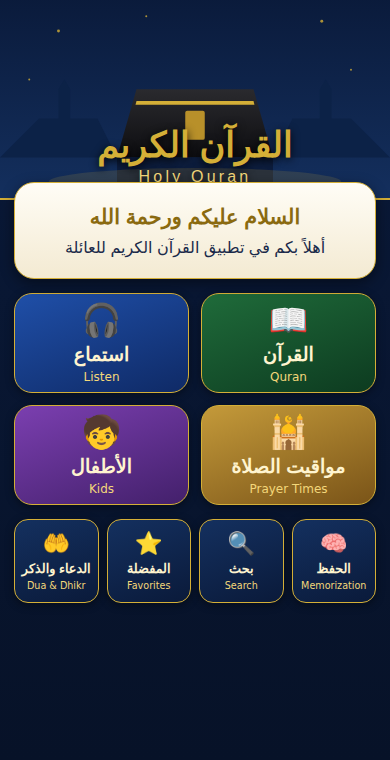
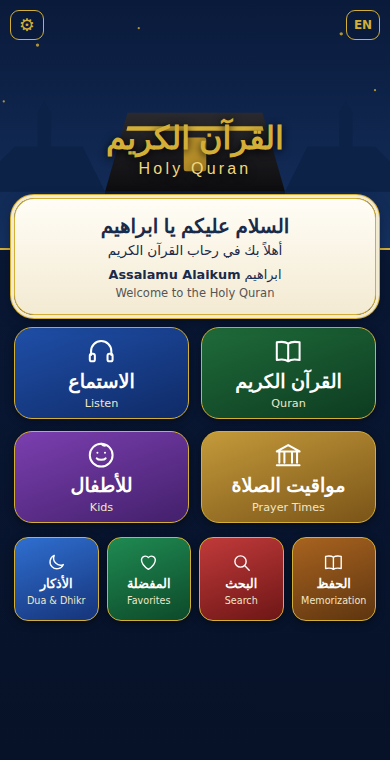
Match Home screen to approved reference image

diff --git a/index.html b/index.html
@@ -17,6 +17,8 @@
 <body>
 <main class="app">
   <header class="hero">
+    <button class="hbtn gear" type="button" aria-label="الإعدادات">⚙</button>
+    <button class="hbtn lang" type="button" aria-label="English">EN</button>
     <img src="assets/header.jpg" onerror="this.onerror=null;this.src='assets/header.svg'" alt="" class="hero-img">
     <div class="hero-text">
       <h1>القرآن الكريم</h1>
@@ -25,22 +27,24 @@
   </header>
 
   <section class="welcome" aria-label="ترحيب">
-    <p class="welcome-title">السلام عليكم ورحمة الله</p>
-    <p>أهلاً بكم في تطبيق القرآن الكريم للعائلة</p>
+    <p class="w-ar">السلام عليكم يا ابراهيم</p>
+    <p class="w-ar2">أهلاً بك في رحاب القرآن الكريم</p>
+    <p class="w-en" dir="ltr"><b>Assalamu Alaikum</b> ابراهيم</p>
+    <p class="w-en2" lang="en" dir="ltr">Welcome to the Holy Quran</p>
   </section>
 
   <nav class="grid primary" aria-label="الأقسام الرئيسية">
-    <a href="#quran" class="btn big quran"><span class="ico">📖</span><b>القرآن</b><small lang="en" dir="ltr">Quran</small></a>
-    <a href="#listen" class="btn big listen"><span class="ico">🎧</span><b>استماع</b><small lang="en" dir="ltr">Listen</small></a>
-    <a href="#prayer" class="btn big prayer"><span class="ico">🕌</span><b>مواقيت الصلاة</b><small lang="en" dir="ltr">Prayer Times</small></a>
-    <a href="#kids" class="btn big kids"><span class="ico">🧒</span><b>الأطفال</b><small lang="en" dir="ltr">Kids</small></a>
+    <a href="#quran" class="btn big quran"><svg class="ico" viewBox="0 0 24 24" fill="none" stroke="currentColor" stroke-width="1.6" stroke-linecap="round" stroke-linejoin="round"><path d="M12 6v14M12 6C10 4.5 6 4.5 3 5v14c3-.5 7-.5 9 1 2-1.5 6-1.5 9-1V5c-3-.5-7-.5-9 1z"/></svg><b>القرآن الكريم</b><small lang="en" dir="ltr">Quran</small></a>
+    <a href="#listen" class="btn big listen"><svg class="ico" viewBox="0 0 24 24" fill="none" stroke="currentColor" stroke-width="1.6" stroke-linecap="round" stroke-linejoin="round"><path d="M4 15v-3a8 8 0 0116 0v3"/><rect x="3" y="14" width="4" height="6" rx="1.5"/><rect x="17" y="14" width="4" height="6" rx="1.5"/></svg><b>الاستماع</b><small lang="en" dir="ltr">Listen</small></a>
+    <a href="#prayer" class="btn big prayer"><svg class="ico" viewBox="0 0 24 24" fill="none" stroke="currentColor" stroke-width="1.6" stroke-linecap="round" stroke-linejoin="round"><path d="M3 9l9-5 9 5zM5 9v9M9 9v9M15 9v9M19 9v9M3 20h18"/></svg><b>مواقيت الصلاة</b><small lang="en" dir="ltr">Prayer Times</small></a>
+    <a href="#kids" class="btn big kids"><svg class="ico" viewBox="0 0 24 24" fill="none" stroke="currentColor" stroke-width="1.6" stroke-linecap="round" stroke-linejoin="round"><circle cx="12" cy="12" r="9"/><path d="M8.5 14.5c1 1.5 6 1.5 7 0M9 10h.01M15 10h.01M12 3c1 1 2 1.5 3 1.5"/></svg><b>للأطفال</b><small lang="en" dir="ltr">Kids</small></a>
   </nav>
 
   <nav class="grid secondary" aria-label="أقسام أخرى">
-    <a href="#memorization" class="btn small"><span class="ico">🧠</span><b>الحفظ</b><small lang="en" dir="ltr">Memorization</small></a>
-    <a href="#search" class="btn small"><span class="ico">🔍</span><b>بحث</b><small lang="en" dir="ltr">Search</small></a>
-    <a href="#favorites" class="btn small"><span class="ico">⭐</span><b>المفضلة</b><small lang="en" dir="ltr">Favorites</small></a>
-    <a href="#dua" class="btn small"><span class="ico">🤲</span><b>الدعاء والذكر</b><small lang="en" dir="ltr">Dua &amp; Dhikr</small></a>
+    <a href="#memorization" class="btn small mem"><svg class="ico" viewBox="0 0 24 24" fill="none" stroke="currentColor" stroke-width="1.6" stroke-linecap="round" stroke-linejoin="round"><path d="M12 6v14M12 6C10 4.5 6 4.5 3 5v14c3-.5 7-.5 9 1 2-1.5 6-1.5 9-1V5c-3-.5-7-.5-9 1z"/></svg><b>الحفظ</b><small lang="en" dir="ltr">Memorization</small></a>
+    <a href="#search" class="btn small search"><svg class="ico" viewBox="0 0 24 24" fill="none" stroke="currentColor" stroke-width="1.6" stroke-linecap="round" stroke-linejoin="round"><circle cx="11" cy="11" r="6.5"/><path d="M16 16l5 5"/></svg><b>البحث</b><small lang="en" dir="ltr">Search</small></a>
+    <a href="#favorites" class="btn small fav"><svg class="ico" viewBox="0 0 24 24" fill="none" stroke="currentColor" stroke-width="1.6" stroke-linecap="round" stroke-linejoin="round"><path d="M12 20s-8-5-8-11a4.5 4.5 0 018-2.5A4.5 4.5 0 0120 9c0 6-8 11-8 11z"/></svg><b>المفضلة</b><small lang="en" dir="ltr">Favorites</small></a>
+    <a href="#dua" class="btn small dua"><svg class="ico" viewBox="0 0 24 24" fill="none" stroke="currentColor" stroke-width="1.6" stroke-linecap="round" stroke-linejoin="round"><path d="M20 14.5A8 8 0 019.5 4a8 8 0 1010.5 10.5z"/></svg><b>الأذكار</b><small lang="en" dir="ltr">Dua &amp; Dhikr</small></a>
   </nav>
 </main>
 <script>

diff --git a/styles.css b/styles.css
@@ -3,28 +3,36 @@
 html,body{min-height:100%}
 body{background:var(--navy);color:var(--text);font-family:"Noto Naskh Arabic","Amiri","Traditional Arabic","Geeza Pro",Tahoma,"Segoe UI",Arial,sans-serif;-webkit-tap-highlight-color:transparent}
 .app{max-width:480px;margin:0 auto;min-height:100vh;padding:0 0 calc(16px + env(safe-area-inset-bottom));background:linear-gradient(180deg,var(--navy),#071228)}
-.hero{position:relative;height:200px;overflow:hidden;border-bottom:2px solid var(--gold)}
+.hero{position:relative;height:250px;overflow:hidden;border-bottom:2px solid var(--gold)}
 .hero-img{width:100%;height:100%;object-fit:cover;display:block}
-.hero-text{position:absolute;inset:auto 0 12px;text-align:center;text-shadow:0 2px 8px #000}
-.hero h1{font-size:2.2rem;color:var(--gold);line-height:1.3}
+.hero-text{position:absolute;inset:auto 0 70px;text-align:center;text-shadow:0 2px 8px #000}
+.hero h1{font-size:2rem;color:var(--gold);line-height:1.3}
 .hero p{font-size:1rem;letter-spacing:.2em;color:var(--gold2)}
-.welcome{margin:-18px 14px 14px;position:relative;padding:16px 14px;text-align:center;color:#1a2a4a;border:1px solid var(--gold);border-radius:20px;background:linear-gradient(180deg,#fffdf6,#f3ead2);line-height:1.7;box-shadow:0 4px 14px rgba(0,0,0,.45)}
-.welcome-title{color:#8a6a10;font-size:1.3rem;font-weight:700}
+.welcome{margin:-52px 14px 12px;position:relative;padding:12px 14px;text-align:center;color:#1a2a4a;border:1px solid var(--gold);border-radius:20px;background:linear-gradient(180deg,#fffdf6,#f3ead2);line-height:1.5;box-shadow:0 0 0 3px #f3ead2,0 0 0 4px var(--gold),0 4px 14px rgba(0,0,0,.5)}
+.w-ar{color:#1a2a4a;font-size:1.25rem;font-weight:700}
+.w-ar2{font-size:.85rem}
+.w-en{font-size:.8rem;font-family:system-ui,Arial,sans-serif;margin-top:4px}
+.w-en2{font-size:.72rem;color:#555;font-family:system-ui,Arial,sans-serif}
+.hbtn{position:absolute;top:10px;z-index:2;width:34px;height:30px;border-radius:9px;border:1px solid var(--gold);background:rgba(10,26,58,.75);color:var(--gold);font:700 .75rem system-ui,sans-serif}
+.gear{left:10px;font-size:1.1rem}.lang{right:10px}
 .grid{display:grid;gap:12px;margin:0 14px 14px}
 .primary{grid-template-columns:1fr 1fr}
 .secondary{grid-template-columns:repeat(4,1fr);gap:8px}
 .btn{display:flex;flex-direction:column;align-items:center;justify-content:center;gap:4px;text-decoration:none;color:var(--text);text-align:center;border:1.5px solid var(--gold);background:linear-gradient(160deg,var(--navy2),var(--navy));box-shadow:0 2px 8px rgba(0,0,0,.4)}
 .btn:active{filter:brightness(1.2);transform:scale(.97)}
-.btn b{color:#fff4cf;font-size:1rem}
-.btn small{font-size:.75rem;color:var(--gold2);font-family:system-ui,Arial,sans-serif}
-.big{min-height:100px;border-radius:18px}
-.big .ico{font-size:2rem}
+.btn b{color:#fff;font-size:1rem}
+.btn small{font-size:.7rem;color:#f0e6c8;font-family:system-ui,Arial,sans-serif}
+.big{min-height:92px;border-radius:18px}
+.ico{width:1.9rem;height:1.9rem;color:#fff}.small .ico{width:1.3rem;height:1.3rem}
 .big b{font-size:1.2rem}
-.small{aspect-ratio:1;padding:4px 2px;border-radius:14px}
-.small .ico{font-size:1.4rem}
+.small{aspect-ratio:1;border-radius:12px;padding:4px 2px;border-radius:14px}
 .small b{font-size:.8rem}
 .small small{font-size:.6rem}
 .quran{background:linear-gradient(160deg,#1f6b3a,#0d3b20)}
 .listen{background:linear-gradient(160deg,#1f4fa8,#0f2a66)}
 .prayer{background:linear-gradient(160deg,#c49a3a,#7a5418)}
 .kids{background:linear-gradient(160deg,#7b3fb0,#43206b)}
+.mem{background:linear-gradient(160deg,#a8631f,#5e3510)}
+.search{background:linear-gradient(160deg,#c13a3a,#6e1616)}
+.fav{background:linear-gradient(160deg,#1f8a52,#0d4a2a)}
+.dua{background:linear-gradient(160deg,#2f6fd0,#16347a)}

diff --git a/sw.js b/sw.js
@@ -1,4 +1,4 @@
-const CACHE = 'holy-quran-family-v2';
+const CACHE = 'holy-quran-family-v3';
 const ASSETS = ['./', './index.html', './styles.css', './manifest.webmanifest', './assets/header.svg', './assets/icon.svg'];
 
 self.addEventListener('install', (e) => {
